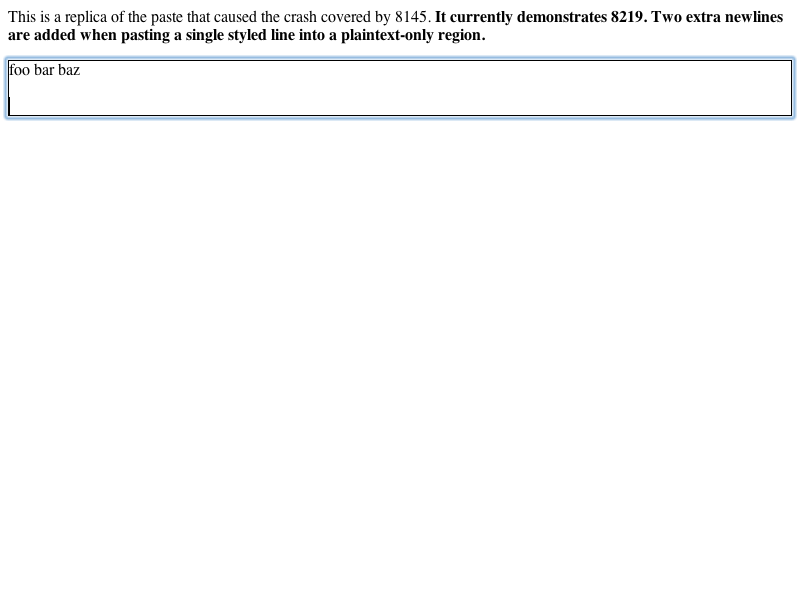
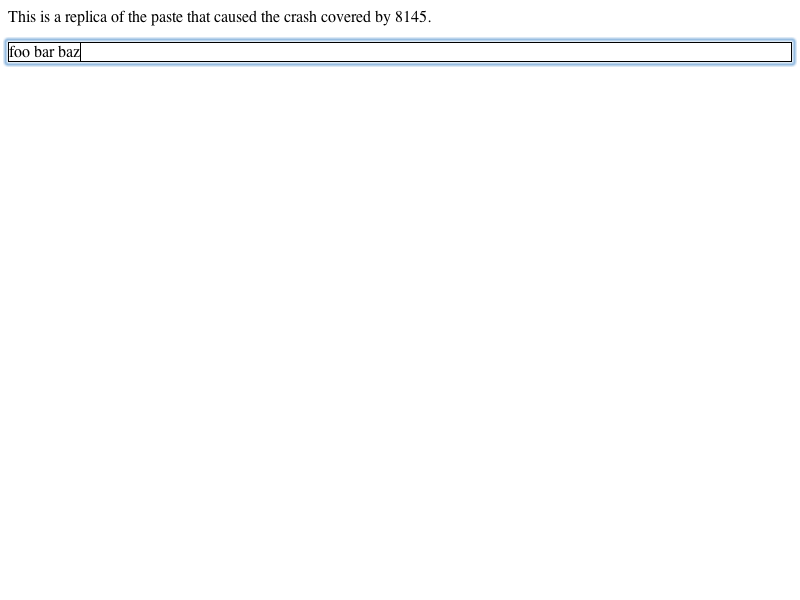
LayoutTests:
Reviewed by adele
        <http://bugzilla.opendarwin.org/show_bug.cgi?id=8219>
        REGRESSION: Two extra newlines added when pasting a single styled line into a plaintext-only region

        Updated to relfect fix:
        * editing/pasteboard/8145-1-expected.checksum:
        * editing/pasteboard/8145-1-expected.png:
        * editing/pasteboard/8145-1-expected.txt:
        * editing/pasteboard/8145-1.html:

WebCore:

        Reviewed by adele
        
        <http://bugzilla.opendarwin.org/show_bug.cgi?id=8219>
        REGRESSION: Two extra newlines added when pasting a single styled line into a plaintext-only region

        * editing/ReplaceSelectionCommand.cpp:
        (WebCore::ReplacementFragment::ReplacementFragment):
        Converting the fragment to plaintext introduced an extraneous newline because
        the range passed to plainText ended after the paragraph containing the fragment
        built from the markup that TextEdit put on the paste board.  TextIterator will
        emit a newline when it exits a paragraph.
        Two extra newlines were added because the '\n' in the plaintext string turns
        into an interchange newline, which isn't removed because of 8250, and the
        interchange newline looks like inline content that requires the insertion of
        a paragraph separator during paste.
        Fixed by creating a range using VisiblePositions at the start and the end of
[…]

Changed region(s): [[0.0, 0.0, 1.0, 0.21]]

diff --git a/editing/pasteboard/8145-1.html b/editing/pasteboard/8145-1.html
@@ -1,9 +1,9 @@
-<p>This is a replica of the paste that caused the crash covered by 8145.  <b>It currently demonstrates 8219.  Two extra newlines are added when pasting a single styled line into a plaintext-only region.</b></p>
-<div id="test1" style="border: 1px solid black;" contenteditable="plaintext-only"></div>
+<p>This is a replica of the paste that caused the crash covered by 8145.</p>
+<div id="test" style="border: 1px solid black;" contenteditable="plaintext-only"></div>
 
 <script>
 var s = window.getSelection();
-var p = document.getElementById("test1");
+var p = document.getElementById("test");
 p.innerHTML = "";
 s.setPosition(p, 0);
 var html = "<p style='margin: 0; font: 12px Helvetica'>foo <b>bar</b> baz</p>" + '\n';
